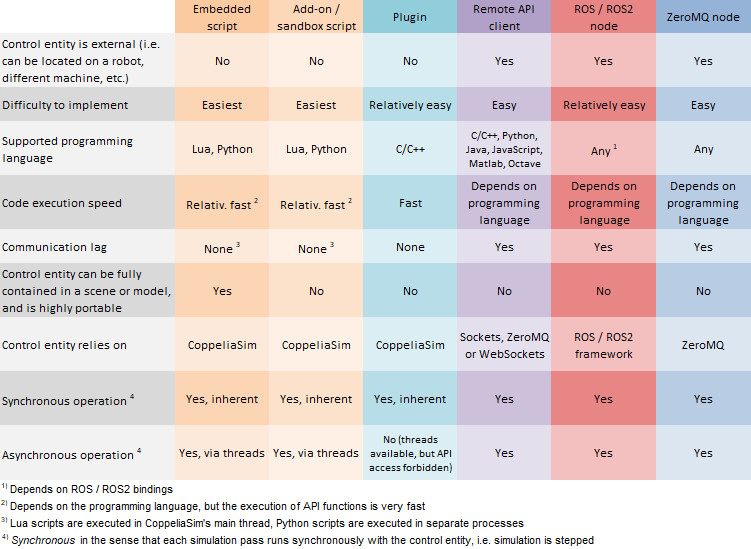
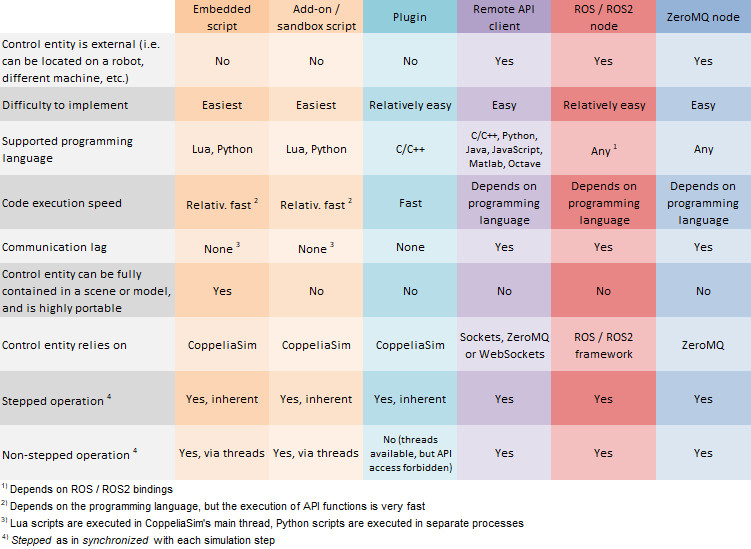
synchronous --> stepped, stepping --> stepped, etc.

Changed region(s): [[0.0306, 0.9599, 0.7963, 1.0], [0.0, 0.8051, 0.1838, 0.8361], [0.0, 0.7122, 0.1838, 0.7432]]

diff --git a/en/jointDescription.htm b/en/jointDescription.htm
@@ -146,11 +146,11 @@ sim.setThreadAutomaticSwitch(initialForbidLevel) -- Restore the automatic thread
 -- In above code, a new joint position is applied in each simulation step
 </code>
 
-<p>When you try to control a joint that is not in force/torque mode from an external application (e.g. via the <a href="remoteApiOverview.htm">remote API</a> or <a href="rosInterfaces.htm">ROS</a>), then the external controller will run asynchronously to CoppeliaSim (i.e. similar to the non-synchronized code of a threaded <a href="childScripts.htm">child script</a>). This is fine most of the time for <strong><em>loose</em></strong> control, but if you wish to control the position of the joint <strong><em>precisely</em></strong> in each simulation loop, you will have to run CoppeliaSim in stepping mode, and the external controller (e.g. the remote API client) will have to trigger each simulation step explicitely. </p>
+<p>When you try to control a joint that is not in force/torque mode from an external application (e.g. via the <a href="remoteApiOverview.htm">remote API</a> or <a href="rosInterfaces.htm">ROS</a>), then the external controller will run asynchronously to CoppeliaSim (i.e. similar to the non-synchronized code of a threaded <a href="childScripts.htm">child script</a>). This is fine most of the time for <strong><em>loose</em></strong> control, but if you wish to control the position of the joint <strong><em>precisely</em></strong> in each simulation loop, you will have to run CoppeliaSim in stepped mode, and the external controller (e.g. the remote API client) will have to trigger each simulation step explicitely. </p>
 <p>Following illustrates a Python <a href="zmqRemoteApiOverview.htm">ZeroMQ remote API</a> client that does this:</p>
 
 <code class="hljs language-python coppelia-zmq-remote-api-client">
-client.setstepping(True) # enable the stepping mode.
+client.setstepping(True) # enable the stepped mode.
 sim.startSimulation() # start the simulation
 sim.setJointPosition(jointHandle,90*3.1415/180) # set the joint to 90 degrees
 client.step() # trigger next simulation step. Above commands will be applied
@@ -162,7 +162,7 @@ sim.setJointPosition(jointHandle,0) # set the joint to 0 degrees
 <p>Following does the same, however with a C++ <a href="legacyRemoteApiOverview.htm">legacy remote API</a> client:</p>
 
 <code class="hljs language-c++ coppelia-legacy-remote-api-client">
-simxSynchronous(clientId,1); // enable the stepping mode.
+simxSynchronous(clientId,1); // enable the stepped mode.
 simxStartSimulation(clientId,simx_opmode_oneshot); // start the simulation
 simxSetJointPosition(clientId,jointHandle,90.0f*3.1415f/180.0f,simx_opmode_oneshot); // set the joint to 90 degrees
 simxSynchronousTrigger(clientId); // trigger next simulation step. Above commands will be applied
@@ -181,7 +181,7 @@ simxSetJointPosition(clientId,jointHandle,0.0f*3.1415f/180.0f,simx_opmode_onesho
 
 <p>By default, the simulation loop runs with a time step of 50ms (in simulation time). But the physics engine will run with a time step of 5ms, i.e. 10 times more often. A child script will be called in each simulation step, but not in each physics engine calculation step. This means that if you control a joint from a child script in a <em>regular way</em>, you will only be able to provide new control values once for 10 physics engine calculation steps: you will be missing 9 steps. One way to overcome this would be to change the default <a href="simulationPropertiesDialog.htm">simulation settings</a> and to specify a simulation <strong>time step</strong> of 5ms, instead of 50ms. This works fine, but remember that all other calculations (e.g. <a href="visionSensors.htm">vision sensors</a>, <a href="proximitySensors.htm">proximity sensors</a>, <a href="distanceCalculation.htm">distance calculations</a>, <a href="kinematics.htm">IK</a>, etc.) will also run 10 times more often, and finally slow down your simulation (most of the time you won't need such a high refresh rate for the other calculation modules. But the physics engine requires such a high refresh rate). Another, much better option, would be to use a <a href="jointCallbackFunctions.htm">joint callback function</a> (or a <a href="dynCallbackFunctions.htm">dynamics callback function</a>) as will be explained further down.</p>
 
-<p>If, one the other hand, you want to run a <em><strong>precise</strong></em> and regular joint controller externally (e.g. from a <a href="remoteApiOverview.htm">remote API</a> client or a <a href="rosInterfaces.htm">ROS</a> node), then you have no other option than to set the simulation loop to the same rate as the physics engine rate, then run CoppeliaSim in stepping mode, and the external controller (e.g. the remote API client) will have to trigger each simulation step explicitely. </p>
+<p>If, one the other hand, you want to run a <em><strong>precise</strong></em> and regular joint controller externally (e.g. from a <a href="remoteApiOverview.htm">remote API</a> client or a <a href="rosInterfaces.htm">ROS</a> node), then you have no other option than to set the simulation loop to the same rate as the physics engine rate, then run CoppeliaSim in stepped mode, and the external controller (e.g. the remote API client) will have to trigger each simulation step explicitely. </p>
 
 <p>Following illustrates a Python <a href="zmqRemoteApiOverview.htm">ZeroMQ remote API</a> client that does this:</p>
 
@@ -216,7 +216,7 @@ simxSetJointTargetVelocity(clientId,jointHandle,180.0f*3.1415f/180.0f,simx_opmod
 
 <p><a name="controlLoopEnabled"></a>If your <strong>joint's motor is enabled, and the control loop is also enabled</strong>, then the physics engine will handle the joint according to the setting: your joint can operate in position control (i.e. PID control), in a spring/damper mode, or in custom control. PID and spring/damper parameters can be updated from a <a href="childScripts.htm">child script</a>, from a <a href="remoteApiOverview.htm">remote API</a> client or from a <a href="rosInterfaces.htm">ROS</a> node. Refer to <a href="objectParameterIDs.htm">object parameter IDs</a> 2002-2004, and 2018-2019. Desired target positions can be set with <a href="regularApi/simSetJointTargetPosition.htm">sim.setJointTargetPosition</a> (or, for example, from a legacy remote API client: <a href="remoteApiFunctions.htm#simxSetJointTargetPosition">simxSetJointTargetPosition</a>). When you need a <em><strong>precise</strong></em> custom controller, then you should use a <a href="jointCallbackFunctions.htm">joint callback function</a> instead (or a <a href="dynCallbackFunctions.htm">dynamics callback function</a>).</p>
 
-<p>Finally, if you need a precise PID or custom controller that is implemented in an external application, you need to make sure that the simulation step is the same as the physics engine calculation step: by default, CoppeliaSim's simulation loop runs at 20Hz (in simulation time), while the physics engine runs at 200Hz. You can adjust the simulation step size in the <a href="simulationPropertiesDialog.htm">simulation setting</a>. You also need to make sure you run CoppeliaSim in stepping mode. </p>
+<p>Finally, if you need a precise PID or custom controller that is implemented in an external application, you need to make sure that the simulation step is the same as the physics engine calculation step: by default, CoppeliaSim's simulation loop runs at 20Hz (in simulation time), while the physics engine runs at 200Hz. You can adjust the simulation step size in the <a href="simulationPropertiesDialog.htm">simulation setting</a>. You also need to make sure you run CoppeliaSim in stepped mode. </p>
 <p>Following illustrates a Python <a href="zmqRemoteApiOverview.htm">ZeroMQ remote API</a> client that does this:</p>
 
 <code class="hljs language-python coppelia-zmq-remote-api-client">

diff --git a/en/remoteApiModusOperandi.htm b/en/remoteApiModusOperandi.htm
@@ -30,7 +30,7 @@ The need for an <a href="remoteApiConstants.htm#operationModes">operation mode</
 <li><a href="#nonBlocking">Non-blocking function calls</a></li>
 <li><a href="#streaming">Data streaming</a></li>
 <li><a href="#nonBlockingDataRetrieval">Non-blocking, non-streaming data query</a></li>
-<li><a href="#stepping">Stepping mode</a> (previously <em>synchronous mode</em>)</li>
+<li><a href="#stepping">stepped mode</a> (previously <em>synchronous mode</em>)</li>
 <br>
 <br>
 
@@ -132,10 +132,10 @@ if (simx_return_ok==simxGetVisionSensorImage(clientID,sensorHandle,res,&amp;img,
 }</code>
 <br>
 
-<p><a name="stepping" id="stepping"></a><a name="synchronous" id="synchronous"></a><strong>Stepping (or synchronous) mode</strong>: from above function calls you might have noticed that a simulation will advance or progress without taking into account the progress of the remote API client. Remote API function calls will be executed asynchronously by default. There are however situations where the remote API client needs to be synchronized with the simulation progress, by controlling the simulation advance from the remote API client side. This can be achieved by using the stepping mode. The remote API server service needs in that case to be pre-enabled for stepping operation (this can be achieved via the <a href="remoteApiServerSide.htm#simRemoteApi.start">simRemoteApi.start</a> function, or via the <a href="remoteApiServerSide.htm#continuousRemoteApiService">continuous remote API server service configuration file <em>remoteApiConnections.txt</em></a>). Following is an example of the stepping mode:</p>
+<p><a name="stepping" id="stepping"></a><a name="synchronous" id="synchronous"></a><strong>stepped (or synchronous) mode</strong>: from above function calls you might have noticed that a simulation will advance or progress without taking into account the progress of the remote API client. Remote API function calls will be executed asynchronously by default. There are however situations where the remote API client needs to be synchronized with the simulation progress, by controlling the simulation advance from the remote API client side. This can be achieved by using the stepped mode. The remote API server service needs in that case to be pre-enabled for stepped operation (this can be achieved via the <a href="remoteApiServerSide.htm#simRemoteApi.start">simRemoteApi.start</a> function, or via the <a href="remoteApiServerSide.htm#continuousRemoteApiService">continuous remote API server service configuration file <em>remoteApiConnections.txt</em></a>). Following is an example of the stepped mode:</p>
 
 <code class="hljs language-c++ coppelia-legacy-remote-api-client">
-simxSynchronous(clientID,true); // Enable the stepping mode (<strong>Blocking</strong> function call)
+simxSynchronous(clientID,true); // Enable the stepped mode (<strong>Blocking</strong> function call)
 simxStartSimulation(clientID,simx_opmode_oneshot);
 
 // The first simulation step waits for a trigger before being executed
@@ -150,9 +150,9 @@ simxSynchronousTrigger(clientID); // Trigger next simulation step (<strong>Block
 
 ...</code>
 
-<p>Following diagram illustrates the stepping mode:</p>
+<p>Following diagram illustrates the stepped mode:</p>
 <p align=center><img src="images/remoteApiSynchronous.jpg"></p>
-<p class=imageLabel>[Stepping mode]</p>
+<p class=imageLabel>[stepped mode]</p>
 <br>
 
 
@@ -160,7 +160,7 @@ simxSynchronousTrigger(clientID); // Trigger next simulation step (<strong>Block
 <p><a name="synchronousDataUpdate" id="synchronousDataUpdate"></a>When calling simxSynchronousTrigger, the next simulation step will start computing. This doesn't mean that when the function call returns, the next simulation step will have finished computing.  For that reason you have to make sure to read the correct data. If no special measure is taken, you might read data from previous simulation step, or from current simulation step, as illustrated in following diagram:</p>
 
 <p align=center><img src="images/remoteApiSynchronousUpdate1.jpg"></p>
-<p class=imageLabel>[Stepping mode, uncertain data update]</p>
+<p class=imageLabel>[stepped mode, uncertain data update]</p>
 <br>
 
 
@@ -170,7 +170,7 @@ simxSynchronousTrigger(clientID); // Trigger next simulation step (<strong>Block
 <p>You have several possibilities to overcome above problematic situation. The simplest is to call a function in a blocking fashion directly after calling simxSynchronousTrigger:</p>
 
 <code class="hljs language-c++ coppelia-legacy-remote-api-client">
-simxSynchronous(clientID,true); // Enable the stepping mode (<strong>Blocking</strong> function call)
+simxSynchronous(clientID,true); // Enable the stepped mode (<strong>Blocking</strong> function call)
 simxStartSimulation(clientID,simx_opmode_oneshot);
 
 // The first simulation step waits for a trigger before being executed
@@ -185,7 +185,7 @@ simxGetPingTime(clientID); // After this call, the first simulation step is fini
 
 <p>Following diagram illustrates above procedure:</p>
 <p align=center><img src="images/remoteApiSynchronousUpdate2.jpg"></p>
-<p class=imageLabel>[Stepping mode, correct data update]</p>
+<p class=imageLabel>[stepped mode, correct data update]</p>
 <br>
 
 

diff --git a/en/zmqRemoteApiOverview.htm b/en/zmqRemoteApiOverview.htm
@@ -22,11 +22,9 @@
 <p>The ZeroMQ remote API is one of <a href="meansOfCommunication.htm">several ways an application can connect with CoppeliaSim</a>.</p>
 
 <p>The ZeroMQ remote API allows to control a simulation (or the simulator itself) from an external application or a remote hardware (e.g. real robot, remote computer, etc.). It offers all API functions also available via a CoppeliaSim script: this includes all <a href="apiFunctions.htm">regular API functions</a> (i.e. sim.* -type functions), but also all API functions provided by <a href="plugins.htm">plugins</a> (e.g. simOMPL.*, simUI.*, simIK.*, etc.). The ZeroMQ remoteAPI represents a very thin Python wrapper around mentioned API functions, and can be used in the exact same way as from within a CoppeliaSim script.</p>
-<p>The ZeroMQ remote API functions are interacting with CoppeliaSim via <a href="http://api.zeromq.org/" target="_blank">ZeroMQ</a> and its <a href="simZMQ.htm">interface plugin</a> to CoppeliaSim and the ZMQ remote API <a href="addOns.htm">add-on</a>. All this happens in a hidden fashion to the user. The remote API can let one or several external applications interact with CoppeliaSim in a synchronous* or asynchronous* way (asynchronous by default), and even remote control of the simulator is supported (e.g. remotely loading a scene, starting, pausing or stopping a simulation for instance).</p>
+<p>The ZeroMQ remote API functions are interacting with CoppeliaSim via <a href="http://api.zeromq.org/" target="_blank">ZeroMQ</a> and its <a href="simZMQ.htm">interface plugin</a> to CoppeliaSim and the ZMQ remote API <a href="addOns.htm">add-on</a>. All this happens in a hidden fashion to the user. The remote API can let one or several external applications interact with CoppeliaSim in a stepped  (i.e. <em>synchronized</em> with each simulation step) or non-stepped way (i.e. the normal operation mode), and even remote control of the simulator is supported (e.g. remotely loading a scene, starting, pausing or stopping a simulation for instance).</p>
 
-<p class="warningBox">Note: the word <em><strong>Synchronous</strong></em> is used in the sense that each simulation pass runs synchronously with the remote API application (the simulator will wait for a trigger signal from a client to step the simulation, i.e. start next simulation pass). This is different from synchronous/asynchronous in the sense of <em>blocking/non-blocking operation</em>. The remote API also supports blocking and non-blocking operations.</p>
-
-<p class="warningBox">Note2: the ZeroMQ remote API also runs on CoppeliaSim V4.2.0, if you follow this procedure: clone the <a href="https://github.com/CoppeliaRobotics/zmqRemoteApi.git" target="_blank">ZeroMQ remote API repository</a> into your <em>CoppeliaSim/programming</em> folder. Then use<a href="https://coppeliaRobotics.com/files/tmp/simAddOnZMQ remote API.lua" target="_blank"> this compatibility add-on</a> and <a href="https://coppeliaRobotics.com/files/tmp/cbor.lua" target="_blank"> that script</a>, and place them into your<em> CoppeliaSim/</em> and <em>CoppeliaSim/Lua</em> folders respectively.</p>
+<p class="warningBox">Note: the ZeroMQ remote API also runs on CoppeliaSim V4.2.0, if you follow this procedure: clone the <a href="https://github.com/CoppeliaRobotics/zmqRemoteApi.git" target="_blank">ZeroMQ remote API repository</a> into your <em>CoppeliaSim/programming</em> folder. Then use<a href="https://coppeliaRobotics.com/files/tmp/simAddOnZMQ remote API.lua" target="_blank"> this compatibility add-on</a> and <a href="https://coppeliaRobotics.com/files/tmp/cbor.lua" target="_blank"> that script</a>, and place them into your<em> CoppeliaSim/</em> and <em>CoppeliaSim/Lua</em> folders respectively.</p>
 
 <p>See programming/zmqRemoteApi folder or <a href="https://github.com/CoppeliaRobotics/zmqRemoteApi" target="_blank">its related repository</a> for examples.</p>
 <br>

diff --git a/en/remoteApiFunctions.htm b/en/remoteApiFunctions.htm
@@ -6081,7 +6081,7 @@ Other languages
 <td class=apiTableLeftDescr>
 Description 
 </td> 
-<td class=apiTableRightDescr>Enables or disables the stepping  mode for the remote API server service that the client is connected to. The function is blocking. While in stepping mode, the client application is in charge of triggering the next simulation step. Only pre-enabled remote API server services will successfully execute this function. See also <a href="#simxSynchronousTrigger">simxSynchronousTrigger</a> and <a href="remoteApiModusOperandi.htm#synchronous">this section</a>. This is a remote API helper function.</td>
+<td class=apiTableRightDescr>Enables or disables the stepped  mode for the remote API server service that the client is connected to. The function is blocking. While in stepped mode, the client application is in charge of triggering the next simulation step. Only pre-enabled remote API server services will successfully execute this function. See also <a href="#simxSynchronousTrigger">simxSynchronousTrigger</a> and <a href="remoteApiModusOperandi.htm#synchronous">this section</a>. This is a remote API helper function.</td>
 </tr> 
 <tr class=apiTableTr> 
 <td class=remApiTableLeftCSyn>
@@ -6093,7 +6093,7 @@ C/C++<br>synopsis
 <td class=remApiTableLeftCParam>C/C++<br>parameters</td> 
 <td class=remApiTableRightCParam>
 <div><strong>clientID</strong>: the client ID. refer to <a href="#simxStart">simxStart</a>.</div>
-<div><strong>enable</strong>: the enable state of the stepping mode</div>
+<div><strong>enable</strong>: the enable state of the stepped mode</div>
 </td> 
 </tr> 
 <tr class=apiTableTr> 
@@ -6132,7 +6132,7 @@ Other languages
 <td class=apiTableLeftDescr>
 Description 
 </td> 
-<td class=apiTableRightDescr>Sends a synchronization  trigger signal to the server. The function is blocking. The server needs to be previously enabled for stepping operation via the <a href="#simxSynchronous">simxSynchronous</a> function. The trigger signal will inform CoppeliaSim to execute the next simulation step (i.e. to call <a href="regularApi/simHandleMainScript.htm">simHandleMainScript</a>). While in stepping  mode, the client application is in charge of triggering the next simulation step, otherwise simulation will stall. See also <a href="remoteApiModusOperandi.htm#synchronous">this section</a>. This is a remote API helper function.</td>
+<td class=apiTableRightDescr>Sends a synchronization  trigger signal to the server. The function is blocking. The server needs to be previously enabled for stepped operation via the <a href="#simxSynchronous">simxSynchronous</a> function. The trigger signal will inform CoppeliaSim to execute the next simulation step (i.e. to call <a href="regularApi/simHandleMainScript.htm">simHandleMainScript</a>). While in stepped  mode, the client application is in charge of triggering the next simulation step, otherwise simulation will stall. See also <a href="remoteApiModusOperandi.htm#synchronous">this section</a>. This is a remote API helper function.</td>
 </tr> 
 <tr class=apiTableTr> 
 <td class=remApiTableLeftCSyn>

diff --git a/en/remoteApiFunctionsMatlab.htm b/en/remoteApiFunctionsMatlab.htm
@@ -6019,7 +6019,7 @@ Other languages
 <td class=apiTableLeftDescr>
 Description 
 </td> 
-<td class=apiTableRightDescr>Enables or disables the stepping mode for the remote API server service that the client is connected to. The function is blocking. While in stepping mode, the client application is in charge of triggering the next simulation step. Only pre-enabled remote API server services will successfully execute this function. See also <a href="#simxSynchronousTrigger">simxSynchronousTrigger</a> and <a href="remoteApiModusOperandi.htm#synchronous">this section</a>. This is a remote API helper function.</td>
+<td class=apiTableRightDescr>Enables or disables the stepped mode for the remote API server service that the client is connected to. The function is blocking. While in stepped mode, the client application is in charge of triggering the next simulation step. Only pre-enabled remote API server services will successfully execute this function. See also <a href="#simxSynchronousTrigger">simxSynchronousTrigger</a> and <a href="remoteApiModusOperandi.htm#synchronous">this section</a>. This is a remote API helper function.</td>
 </tr> 
 <tr class=apiTableTr> 
 <td class=remApiTableLeftCSyn>
@@ -6031,7 +6031,7 @@ Matlab synopsis
 <td class=remApiTableLeftCParam>Matlab parameters</td> 
 <td class=remApiTableRightCParam>
 <div><strong>clientID</strong>: the client ID. refer to <a href="#simxStart">simxStart</a>.</div>
-<div><strong>enable</strong>: the enable state of the stepping mode</div>
+<div><strong>enable</strong>: the enable state of the stepped mode</div>
 </td> 
 </tr> 
 <tr class=apiTableTr> 
@@ -6070,7 +6070,7 @@ Other languages
 <td class=apiTableLeftDescr>
 Description 
 </td> 
-<td class=apiTableRightDescr>Sends a synchronization  trigger signal to the server. The function is blocking. The server needs to be previously enabled for stepping operation via the <a href="#simxSynchronous">simxSynchronous</a> function. The trigger signal will inform CoppeliaSim to execute the next simulation step (i.e. to call <a href="regularApi/simHandleMainScript.htm">simHandleMainScript</a>). While in stepping mode, the client application is in charge of triggering the next simulation step, otherwise simulation will stall. See also <a href="remoteApiModusOperandi.htm#synchronous">this section</a>. This is a remote API helper function.</td>
+<td class=apiTableRightDescr>Sends a synchronization  trigger signal to the server. The function is blocking. The server needs to be previously enabled for stepped operation via the <a href="#simxSynchronous">simxSynchronous</a> function. The trigger signal will inform CoppeliaSim to execute the next simulation step (i.e. to call <a href="regularApi/simHandleMainScript.htm">simHandleMainScript</a>). While in stepped mode, the client application is in charge of triggering the next simulation step, otherwise simulation will stall. See also <a href="remoteApiModusOperandi.htm#synchronous">this section</a>. This is a remote API helper function.</td>
 </tr> 
 <tr class=apiTableTr> 
 <td class=remApiTableLeftCSyn>

diff --git a/en/remoteApiFunctionsOctave.htm b/en/remoteApiFunctionsOctave.htm
@@ -5731,7 +5731,7 @@ Other languages
 <td class=apiTableLeftDescr>
 Description 
 </td> 
-<td class=apiTableRightDescr>Enables or disables the stepping mode for the remote API server service that the client is connected to. The function is blocking. While in stepping mode, the client application is in charge of triggering the next simulation step. Only pre-enabled remote API server services will successfully execute this function. See also <a href="#simxSynchronousTrigger">simxSynchronousTrigger</a> and <a href="remoteApiModusOperandi.htm#synchronous">this section</a>. This is a remote API helper function.</td>
+<td class=apiTableRightDescr>Enables or disables the stepped mode for the remote API server service that the client is connected to. The function is blocking. While in stepped mode, the client application is in charge of triggering the next simulation step. Only pre-enabled remote API server services will successfully execute this function. See also <a href="#simxSynchronousTrigger">simxSynchronousTrigger</a> and <a href="remoteApiModusOperandi.htm#synchronous">this section</a>. This is a remote API helper function.</td>
 </tr> 
 <tr class=apiTableTr> 
 <td class=remApiTableLeftCSyn>
@@ -5743,7 +5743,7 @@ Octave synopsis
 <td class=remApiTableLeftCParam>Octave parameters</td> 
 <td class=remApiTableRightCParam>
 <div><strong>clientID</strong>: the client ID. refer to <a href="#simxStart">simxStart</a>.</div>
-<div><strong>enable</strong>: the enable state of the stepping mode</div>
+<div><strong>enable</strong>: the enable state of the stepped mode</div>
 </td> 
 </tr> 
 <tr class=apiTableTr> 
@@ -5782,7 +5782,7 @@ Other languages
 <td class=apiTableLeftDescr>
 Description 
 </td> 
-<td class=apiTableRightDescr>Sends a synchronization  trigger signal to the server. The function is blocking. The server needs to be previously enabled for stepping operation via the <a href="#simxSynchronous">simxSynchronous</a> function. The trigger signal will inform CoppeliaSim to execute the next simulation step (i.e. to call <a href="regularApi/simHandleMainScript.htm">simHandleMainScript</a>). While in stepping mode, the client application is in charge of triggering the next simulation step, otherwise simulation will stall. See also <a href="remoteApiModusOperandi.htm#synchronous">this section</a>. This is a remote API helper function.</td>
+<td class=apiTableRightDescr>Sends a synchronization  trigger signal to the server. The function is blocking. The server needs to be previously enabled for stepped operation via the <a href="#simxSynchronous">simxSynchronous</a> function. The trigger signal will inform CoppeliaSim to execute the next simulation step (i.e. to call <a href="regularApi/simHandleMainScript.htm">simHandleMainScript</a>). While in stepped mode, the client application is in charge of triggering the next simulation step, otherwise simulation will stall. See also <a href="remoteApiModusOperandi.htm#synchronous">this section</a>. This is a remote API helper function.</td>
 </tr> 
 <tr class=apiTableTr> 
 <td class=remApiTableLeftCSyn>

diff --git a/en/remoteApiFunctionsPython.htm b/en/remoteApiFunctionsPython.htm
@@ -5828,7 +5828,7 @@ Other languages
 <td class=apiTableLeftDescr>
 Description 
 </td> 
-<td class=apiTableRightDescr>Enables or disables the stepping mode for the remote API server service that the client is connected to. The function is blocking. While in stepping mode, the client application is in charge of triggering the next simulation step. Only pre-enabled remote API server services will successfully execute this function. See also <a href="#simxSynchronousTrigger">simxSynchronousTrigger</a> and <a href="remoteApiModusOperandi.htm#synchronous">this section</a>. This is a remote API helper function.</td>
+<td class=apiTableRightDescr>Enables or disables the stepped mode for the remote API server service that the client is connected to. The function is blocking. While in stepped mode, the client application is in charge of triggering the next simulation step. Only pre-enabled remote API server services will successfully execute this function. See also <a href="#simxSynchronousTrigger">simxSynchronousTrigger</a> and <a href="remoteApiModusOperandi.htm#synchronous">this section</a>. This is a remote API helper function.</td>
 </tr> 
 <tr class=apiTableTr> 
 <td class=remApiTableLeftCSyn>
@@ -5840,7 +5840,7 @@ Python synopsis
 <td class=remApiTableLeftCParam>Python parameters</td> 
 <td class=remApiTableRightCParam>
 <div><strong>clientID</strong>: the client ID. refer to <a href="#simxStart">simxStart</a>.</div>
-<div><strong>enable</strong>: the enable state of the stepping mode</div>
+<div><strong>enable</strong>: the enable state of the stepped mode</div>
 </td> 
 </tr> 
 <tr class=apiTableTr> 
@@ -5879,7 +5879,7 @@ Other languages
 <td class=apiTableLeftDescr>
 Description 
 </td> 
-<td class=apiTableRightDescr>Sends a synchronization  trigger signal to the server. The function is blocking. The server needs to be previously enabled for stepping operation via the <a href="#simxSynchronous">simxSynchronous</a> function. The trigger signal will inform CoppeliaSim to execute the next simulation step (i.e. to call <a href="regularApi/simHandleMainScript.htm">simHandleMainScript</a>). While in stepping mode, the client application is in charge of triggering the next simulation step, otherwise simulation will stall. See also <a href="remoteApiModusOperandi.htm#synchronous">this section</a>. This is a remote API helper function.</td>
+<td class=apiTableRightDescr>Sends a synchronization  trigger signal to the server. The function is blocking. The server needs to be previously enabled for stepped operation via the <a href="#simxSynchronous">simxSynchronous</a> function. The trigger signal will inform CoppeliaSim to execute the next simulation step (i.e. to call <a href="regularApi/simHandleMainScript.htm">simHandleMainScript</a>). While in stepped mode, the client application is in charge of triggering the next simulation step, otherwise simulation will stall. See also <a href="remoteApiModusOperandi.htm#synchronous">this section</a>. This is a remote API helper function.</td>
 </tr> 
 <tr class=apiTableTr> 
 <td class=remApiTableLeftCSyn>

diff --git a/en/remoteApiFunctionsJava.htm b/en/remoteApiFunctionsJava.htm
@@ -5622,7 +5622,7 @@ Other languages
 <td class=apiTableLeftDescr>
 Description 
 </td> 
-<td class=apiTableRightDescr>Enables or disables the stepping mode for the remote API server service that the client is connected to. The function is blocking. While in stepping mode, the client application is in charge of triggering the next simulation step. Only pre-enabled remote API server services will successfully execute this function. See also <a href="#simxSynchronousTrigger">simxSynchronousTrigger</a> and <a href="remoteApiModusOperandi.htm#synchronous">this section</a>. This is a remote API helper function.</td>
+<td class=apiTableRightDescr>Enables or disables the stepped mode for the remote API server service that the client is connected to. The function is blocking. While in stepped mode, the client application is in charge of triggering the next simulation step. Only pre-enabled remote API server services will successfully execute this function. See also <a href="#simxSynchronousTrigger">simxSynchronousTrigger</a> and <a href="remoteApiModusOperandi.htm#synchronous">this section</a>. This is a remote API helper function.</td>
 </tr> 
 <tr class=apiTableTr> 
 <td class=remApiTableLeftCSyn>
@@ -5634,7 +5634,7 @@ Java synopsis
 <td class=remApiTableLeftCParam>Java parameters</td> 
 <td class=remApiTableRightCParam>
 <div><strong>clientID</strong>: the client ID. refer to <a href="#simxStart">simxStart</a>.</div>
-<div><strong>enable</strong>: the enable state of the stepping mode</div>
+<div><strong>enable</strong>: the enable state of the stepped mode</div>
 </td> 
 </tr> 
 <tr class=apiTableTr> 
@@ -5673,7 +5673,7 @@ Other languages
 <td class=apiTableLeftDescr>
 Description 
 </td> 
-<td class=apiTableRightDescr>Sends a synchronization  trigger signal to the server. The function is blocking. The server needs to be previously enabled for stepping operation via the <a href="#simxSynchronous">simxSynchronous</a> function. The trigger signal will inform CoppeliaSim to execute the next simulation step (i.e. to call <a href="regularApi/simHandleMainScript.htm">simHandleMainScript</a>). While in stepping mode, the client application is in charge of triggering the next simulation step, otherwise simulation will stall. See also <a href="remoteApiModusOperandi.htm#synchronous">this section</a>. This is a remote API helper function.</td>
+<td class=apiTableRightDescr>Sends a synchronization  trigger signal to the server. The function is blocking. The server needs to be previously enabled for stepped operation via the <a href="#simxSynchronous">simxSynchronous</a> function. The trigger signal will inform CoppeliaSim to execute the next simulation step (i.e. to call <a href="regularApi/simHandleMainScript.htm">simHandleMainScript</a>). While in stepped mode, the client application is in charge of triggering the next simulation step, otherwise simulation will stall. See also <a href="remoteApiModusOperandi.htm#synchronous">this section</a>. This is a remote API helper function.</td>
 </tr> 
 <tr class=apiTableTr> 
 <td class=remApiTableLeftCSyn>

diff --git a/en/legacyRemoteApiOverview.htm b/en/legacyRemoteApiOverview.htm
@@ -21,11 +21,7 @@
 
 <p>The legacy remote API, or remote API in short, is one of <a href="meansOfCommunication.htm">several ways an application can connect with CoppeliaSim</a>.</p>
 
-<p>The  remote API allows to control a simulation (or the simulator itself) from an external application or a remote hardware (e.g. real robot, remote computer, etc.). The CoppeliaSim remote API is composed by <a href="remoteApiFunctionListAlphabetical.htm">approximately one hundred specific functions</a> and <a href="remoteApiFunctions.htm#simxCallScriptFunction">one generic function</a>, that can be called from a C/C++ application, a Python script, a Java application or a Matlab/Octave program. The remote API functions are interacting with CoppeliaSim via socket communication (or, optionally, via shared memory). All this happens in a hidden fashion to the user. The remote API can let one or several external applications interact with CoppeliaSim in a synchronous* or asynchronous* way (asynchronous by default), and even remote control of the simulator is supported (e.g. remotely loading a scene, starting, pausing or stopping a simulation for instance).</p>
-
-<p class=warningBox>Note: the word <em><strong>Synchronous</strong></em> is used in the sense that each simulation pass runs synchronously with the remote API application (i.e. the simulator will wait for a trigger signal from a client to start next simulation pass at a time t+dt). This is different from synchronous/asynchronous in the sense of <em>blocking/non-blocking operation</em>. The remote API also supports blocking and non-blocking operations.<br>
-</p>
-
+<p>The  remote API allows to control a simulation (or the simulator itself) from an external application or a remote hardware (e.g. real robot, remote computer, etc.). The CoppeliaSim remote API is composed by <a href="remoteApiFunctionListAlphabetical.htm">approximately one hundred specific functions</a> and <a href="remoteApiFunctions.htm#simxCallScriptFunction">one generic function</a>, that can be called from a C/C++ application, a Python script, a Java application or a Matlab/Octave program. The remote API functions are interacting with CoppeliaSim via socket communication (or, optionally, via shared memory). All this happens in a hidden fashion to the user. The remote API can let one or several external applications interact with CoppeliaSim in a stepped  (i.e. <em>synchronized</em> with each simulation step) or non-stepped way (i.e. the normal operation mode), and even remote control of the simulator is supported (e.g. remotely loading a scene, starting, pausing or stopping a simulation for instance).</p>
 
 <p>Make sure you understand how the remote API is operating by reading <a href="remoteApiModusOperandi.htm">this section</a>. Also have a look at the <a href="externalControllerTutorial.htm">external controller tutorial</a>.</p>
 

diff --git a/en/wsRemoteApiOverview.htm b/en/wsRemoteApiOverview.htm
@@ -22,10 +22,7 @@
 <p>The WebSocket remote API is one of <a href="meansOfCommunication.htm">several ways an application can connect with CoppeliaSim</a>.</p>
 
 <p>The WebSocket remote API allows to control a simulation (or the simulator itself) from an external JavaScript application or remote client/server, via WebSocket. It offers all API functions also available via a CoppeliaSim script: this includes all <a href="apiFunctions.htm">regular API functions</a> (i.e. sim.* -type functions), but also all API functions provided by <a href="plugins.htm">plugins</a> (e.g. simOMPL.*, simUI.*, simIK.*, etc.). The WebSocket remoteAPI represents a very thin wrapper around mentioned API functions, and can be used in a very similar way as from within a CoppeliaSim script.</p>
-<p>The WebSocket remote API functions are interacting with CoppeliaSim via WebSocket and its <a href="simWS.htm">interface plugin</a> to CoppeliaSim and the WS remote API <a href="addOns.htm">add-on</a>. All this happens in a hidden fashion to the user. The remote API can let one or several external applications interact with CoppeliaSim in a synchronous* or asynchronous* way (asynchronous by default), and even remote control of the simulator is supported (e.g. remotely loading a scene, starting, pausing or stopping a simulation for instance).</p>
-
-<p class="warningBox">Note: the word <em><strong>Synchronous</strong></em> is used in the sense that each simulation pass runs synchronously with the remote API application (the simulator will wait for a trigger signal from a client to step the simulation, i.e. start next simulation pass). This is different from synchronous/asynchronous in the sense of <em>blocking/non-blocking operation</em>. The remote API also supports blocking and non-blocking operations.</p>
-
+<p>The WebSocket remote API functions are interacting with CoppeliaSim via WebSocket and its <a href="simWS.htm">interface plugin</a> to CoppeliaSim and the WS remote API <a href="addOns.htm">add-on</a>. All this happens in a hidden fashion to the user. The remote API can let one or several external applications interact with CoppeliaSim in a stepped  (i.e. <em>synchronized</em> with each simulation step) or non-stepped way (i.e. the normal operation mode), and even remote control of the simulator is supported (e.g. remotely loading a scene, starting, pausing or stopping a simulation for instance).</p>
 
 <p>Here a very simple WebSocket remote API example:</p>
 <code class="hljs language-javaScript coppelia-ws-remote-api-client">const log = (what) =&gt; $('#log').append(`${what}\n`);

diff --git a/en/threadedAndNonThreadedCode.htm b/en/threadedAndNonThreadedCode.htm
@@ -109,7 +109,7 @@ def sysCall_thread():
         print('simulation time: '+str(sim.getSimulationTime()))
 </code>
 
-<p>By default, a Python threaded code section will not operate synchronously, but this can be changed with <a href="regularApi/simSetThreadAutomaticSwitch.htm">sim.setThreadAutomaticSwitch</a>(False) and <a href="regularApi/simSwitchThread.htm">sim.switchThread</a>. Once the current thread was switched, it will resume in next simulation step. Following Python code shows code synchronization with the main simulation loop:</p>
+<p>By default, a Python threaded code section will operate in a stepped fashion, but this can be changed with <a href="regularApi/simSetThreadAutomaticSwitch.htm">sim.setThreadAutomaticSwitch</a>(True) and <a href="regularApi/simSwitchThread.htm">sim.switchThread</a>. Once the current thread was switched, it will resume in next simulation step. Following Python code shows code synchronization with the main simulation loop:</p>
 
 <code class="hljs language-python coppelia-coppeliasim-script">
 #python
@@ -126,7 +126,7 @@ def sysCall_thread():
 <p>&nbsp;</p>
 
 <p>With threads in general, some operation should not be interrupted in order to execute correctly (imagine moving several objects in a loop). In that case, you can temporarily forbid thread switches with the <a href="regularApi/simSetThreadAutomaticSwitch.htm">sim.setThreadAutomaticSwitch</a> function.</p>
-<p>Finally, several <a href="apiFunctions.htm#blockingFunctions">blocking functions</a> are specifically meant to be running from within threaded code, e.g. <a href="regularApi/simMoveToConfig.htm">sim.moveToConfig</a>: those functions will handle thread switching for you, at the appropriate time, in order to operate synchronously with the simulation loop.</p>
+<p>Finally, several <a href="apiFunctions.htm#blockingFunctions">blocking functions</a> are specifically meant to be running from within threaded code, e.g. <a href="regularApi/simMoveToConfig.htm">sim.moveToConfig</a>: those functions will handle thread switching for you, at the appropriate time, in order to operate hand-in-hand, stepped,  with the simulation loop.</p>
 <br>
 <br>
  </tr>

diff --git a/en/accessingSceneObjects.htm b/en/accessingSceneObjects.htm
@@ -21,7 +21,10 @@
 
 <p>When programming in and around CoppeliaSim, you will always need to reference <a href="objects.htm">scene objects</a>. You do this with handles, that you obtain via <a href="regularApi/simGetObject.htm">sim.getObject</a>, which expects an object path as input argument. The object path can be expressed in an absolute manner, but also in a relative manner in case of <a href="#fromAssociatedCode">associated code</a>.</p>
 <p>In both cases, the path to the object can often be simplified. You may also use wildcards, and optionally specify the object sequence or order in a given scene hierarchy. Or simply fetch the n-th object that matches a specific path/alias.</p>
-<p class="warningBox"><strong>Note</strong>: until CoppeliaSim V4.2.0, object access was based on <em>object names </em>(with <em>sim.getObjectHandle</em>), which are now deprecated (but still functional for backward compatibility). We however highly recommend to use object paths as described below, to retrieve object handles. Object paths can easily be identified since they start with one of following characters: <strong>/</strong>, <strong>.</strong> or <strong>:</strong></p>
+<div class="warningBox">
+<p><strong>Note</strong>: until CoppeliaSim V4.2.0, object access was based on <em>object names </em>(with <em>sim.getObjectHandle</em>), which are now deprecated (but still functional for backward compatibility). We however highly recommend to use object paths as described below, to retrieve object handles. Object paths can easily be identified since they start with one of following characters: <strong>/</strong>, <strong>.</strong> or <strong>:</strong></p>
+<p>Deprecated object names are not displayed anymore in the scene hierarchy (where object aliases are displayed instead). You can however still see the deprecated name of an object by selecting it: it will be displayed at the top of the rendering page.</p>
+</div>
 
 
 <br>
